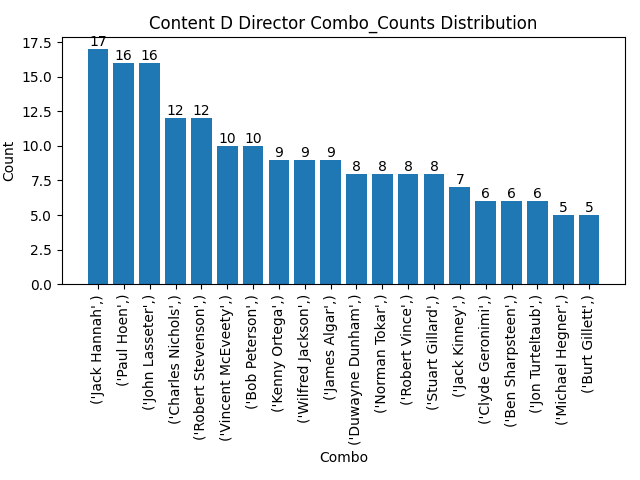
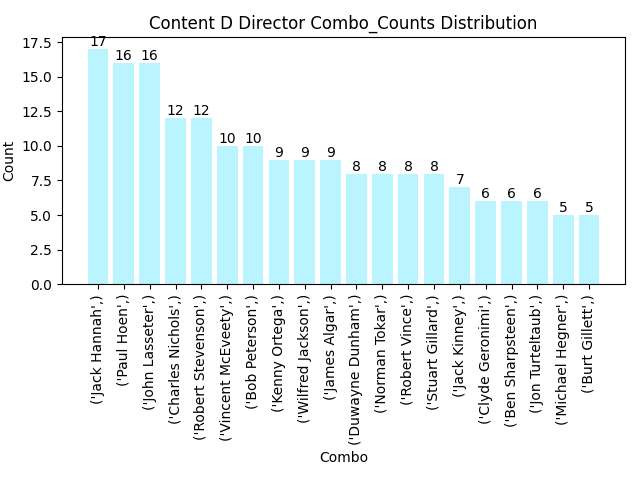
Adjusted color scheme for 'type' column visualization and regenerated charts.

Changed region(s): [[0.125, 0.0938, 0.9375, 0.5938]]

diff --git a/src/utils/data_utils_mysql_N.py b/src/utils/data_utils_mysql_N.py
@@ -315,16 +315,23 @@ class Analysis:
         """
         根據指定的圖表類型和資料類型進行可視化
         """
-        if plot_type == 'bar':
+        if plot_type == 'bar_two':
             if data_type == 'type':
                 # 繪製內容類型的柱狀圖
-                self._plot_bar(self.type_counts, f'Content {db_name} Type Distribution')
-            elif data_type == 'rating':
+                self._plot_bar_two(self.type_counts, f'Content {db_name} Type Distribution')
+        elif plot_type == 'bar':
+            # if data_type == 'type':
+            #     # 繪製內容類型的柱狀圖
+            #     self._plot_bar(self.type_counts, f'Content {db_name} Type Distribution')
+            if data_type == 'rating':
                 # 繪製內容分級的柱狀圖
                 self._plot_bar(self.rating_counts, f'Content {db_name} Rating Distribution')
-            elif data_type == 'duration':
+            elif data_type == 'duration_tv':
                 # 繪製影片時長的柱狀圖
                 self._plot_bar(self.tv_show_duration_counts, f'Content {db_name} TV Show Distribution')
+            elif data_type == 'duration_movie':
+                # 繪製影片時長的柱狀圖
+                self._plot_bar(self.movie_duration_counts, f'Content {db_name} Movie Distribution')
         elif plot_type == 'bar_matplot':
             if data_type == 'director':
                 # 繪製單一導演數量的柱狀圖
@@ -352,16 +359,20 @@ class Analysis:
                 # 繪製內容分類組合頻率的柱狀圖
                 self._plot_bar_combo(self.combo_counts, f'Content {db_name} Listed_in Combo_Counts Distribution')
         
-        elif plot_type == 'pie':
+        elif plot_type == 'pie_two':
             if data_type == 'type':
                 # 繪製內容類型的圓餅圖
-                self._plot_pie(self.type_counts, f'Content {db_name} Type Distribution')
-            elif data_type == 'rating':
+                self._plot_pie_two(self.type_counts, f'Content {db_name} Type Distribution')
+        elif plot_type == 'pie':
+            # if data_type == 'type':
+                # # 繪製內容類型的圓餅圖
+                # self._plot_pie(self.type_counts, f'Content {db_name} Type Distribution')
+            if data_type == 'rating':
                 # 繪製內容分級的圓餅圖
                 self._plot_pie(self.rating_counts, f'Content {db_name} Rating Distribution')
-            elif data_type == 'duration':
-                # 繪製影片時長的圓餅圖
-                self._plot_pie(self.movie_duration_counts, f'Content {db_name} Movie_Duration Distribution')
+            # elif data_type == 'duration':
+                # # 繪製影片時長的圓餅圖
+                # self._plot_pie(self.movie_duration_counts, f'Content {db_name} Movie_Duration Distribution')
         
         elif plot_type == 'heatmap':
             if data_type == 'date_added':
@@ -433,12 +444,30 @@ class Analysis:
         plt.xticks(rotation=45)
         # 自動調整子圖參數，使之填充整個圖像區域
         plt.tight_layout()
+
+    def _plot_bar_two(self, data, title):
+        # 創建一個新的圖形，設置大小
+        plt.figure(figsize=(12, 6))
+        # 調整柱狀圖顏色
+        colors = self.colors_map['N2']  # 取用 D1 調色盤
+        # 使用 Seaborn 繪製柱狀圖
+        ax = sns.barplot(x=data.index, y=data.values, palette=colors * len(data))
+        # 在每個柱狀圖上添加數字標籤
+        for i, value in enumerate(data.values):
+            ax.text(i, value + 0.01, f'{value:.0f}', ha='center', va='bottom')
+        # 設置圖表標題
+        plt.title(title)
+        # 旋轉 x 軸標籤，避免重疊
+        plt.xticks(rotation=45)
+        # 自動調整子圖參數，使之填充整個圖像區域
+        plt.tight_layout()
     
     def _plot_bar_matplot(self, label_counts, title):
         """
             繪製單一多標籤分析柱狀圖
         """
-        p1=plt.bar(label_counts.keys(), label_counts.values())
+        colors = self.colors_map['N1']  # 取用 D1 調色盤
+        p1=plt.bar(label_counts.keys(), label_counts.values(), color=colors)
         # 在每個柱狀圖上添加數字標籤
         plt.bar_label(p1, label_type='edge')
         plt.xticks(rotation=75)
@@ -453,7 +482,8 @@ class Analysis:
         """
             繪製多標籤組合頻率分析柱狀圖
         """
-        p1=plt.bar(list(map(str,combo_counts.keys())), combo_counts.values())
+        colors = self.colors_map['N1']  # 取用 D1 調色盤
+        p1=plt.bar(list(map(str,combo_counts.keys())), combo_counts.values(), color=colors)
         # 在每個柱狀圖上添加數字標籤
         plt.bar_label(p1, label_type='edge')
         plt.xticks(rotation=90)
@@ -470,6 +500,25 @@ class Analysis:
         plt.figure(figsize=(10, 10))
         # 使用內建調色盤
         colors = plt.get_cmap('tab10').colors
+        # 繪製圓餅圖
+        wedges, texts, autotexts = plt.pie(
+            data.values, 
+            labels=data.index, 
+            # colors=self.colors_map['N2'], 
+            colors=colors[:len(data)],
+            autopct='%1.1f%%', 
+            textprops={'color': 'white', 'fontsize': 12, 'fontweight': 'bold'}
+            )
+        # 設置圖表標題
+        plt.title(title)
+        # 新增標籤到圖例中
+        plt.legend(wedges, data.index, title="統計項目", loc="center left", bbox_to_anchor=(1, 0, 0.5, 1))
+
+    def _plot_pie_two(self, data, title):
+        # 創建一個新的圖形，設置大小
+        plt.figure(figsize=(10, 10))
+        # 調整圓餅圖顏色，從 self.colors_map 中取用
+        colors = self.colors_map['N2']
         # 繪製圓餅圖
         wedges, texts, autotexts = plt.pie(
             data.values, 
@@ -718,19 +767,19 @@ def analysis():
     analysis.calculate()
 
     # 生成影片類型並保存柱狀圖
-    analysis.visualize('bar', 'type')
+    analysis.visualize('bar_two', 'type')
     analysis.export(f'{db_name} Content type Distribution bar.png')
 
     # 生成影片時長並保存柱狀圖
-    analysis.visualize('bar', 'duration')
-    analysis.export(f'{db_name} Content TV Show Distribution bar.png')
+    analysis.visualize('bar', 'duration_tv')
+    analysis.export(f'{db_name} Content TV Show Duration Distribution bar.png')
 
     # 生成內容分級並保存柱狀圖
     analysis.visualize('bar', 'rating')
     analysis.export(f'{db_name} Content Rating Distribution bar.png')
 
     # 生成影片類型並保存圓餅圖
-    analysis.visualize('pie', 'type')
+    analysis.visualize('pie_two', 'type')
     analysis.export(f'{db_name} Content Type Distribution pie.png')
 
     # 生成影片類型並保存圓餅圖
@@ -738,7 +787,7 @@ def analysis():
     analysis.export(f'{db_name} Content Rating Distribution pie.png')
 
     # 生成影片時長並保存圓餅圖
-    analysis.visualize('pie', 'duration')
+    analysis.visualize('bar', 'duration_movie')
     analysis.export(f'{db_name} Content Movie Duration Distribution pie.png')    
 
     # 生成上架時間並保存熱力圖
@@ -761,15 +810,15 @@ def analysis():
     analysis.visualize('combine_b2l', 'year')
     analysis.export(f'{db_name} Yearly Growth of TV Shows and Movies on Netflix.png')
 
-    # 生成情感分析結果並保存密度估計圖
-    analysis.TextBlob()
-    analysis.kdeplot()
-    analysis.export(f'{db_name} Kernel Density Estimate of Sentiment Distribution')
+    # # 生成情感分析結果並保存密度估計圖
+    # analysis.TextBlob()
+    # analysis.kdeplot()
+    # analysis.export(f'{db_name} Kernel Density Estimate of Sentiment Distribution')
 
-    # 生成情感分析結果並保存散點圖
-    analysis.TextBlob()
-    analysis.scatterplot()
-    analysis.export(f'{db_name} Scatter plot of Sentiment')
+    # # 生成情感分析結果並保存散點圖
+    # analysis.TextBlob()
+    # analysis.scatterplot()
+    # analysis.export(f'{db_name} Scatter plot of Sentiment')
 
     #  生成多標籤分析結果並保存柱狀圖
     analysis.multi_label('director')
